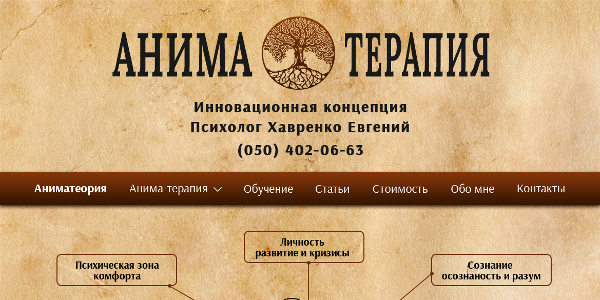
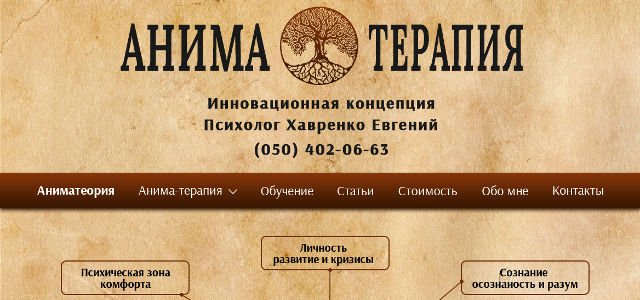
fixed size img anima_therapy

diff --git a/index.html b/index.html
@@ -63,7 +63,7 @@
   </header>
   <main class="content">
   <article class="content__block   progects">
-      <a href="https://pashkes.github.io/anima_therapy" class="progects__img" target="_blank"><img src="img/progect_img/anima_therapy.jpg" alt="pink" width="600" height="300">
+      <a href="https://pashkes.github.io/anima_therapy" class="progects__img" target="_blank"><img src="img/progect_img/anima_therapy.jpg" alt="pink" width="640" height="300">
         <svg class="progects__view">
           <use xlink:href="img/symbol.svg#icon-eye"></use>
         </svg>
